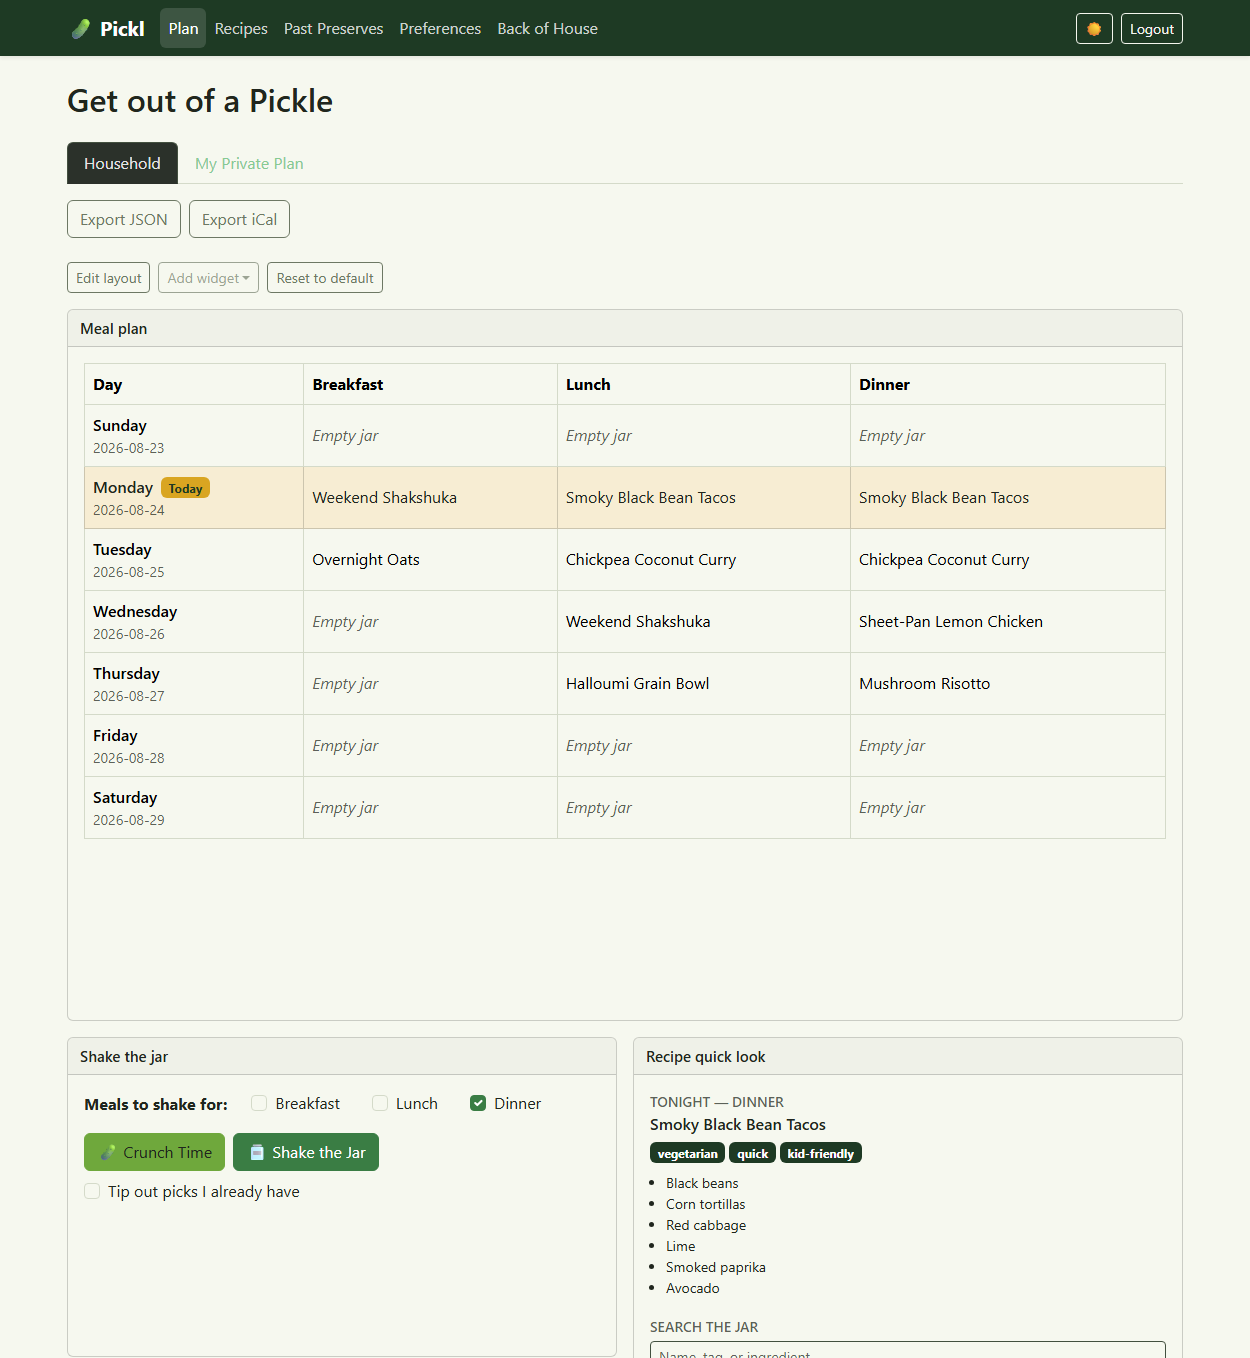
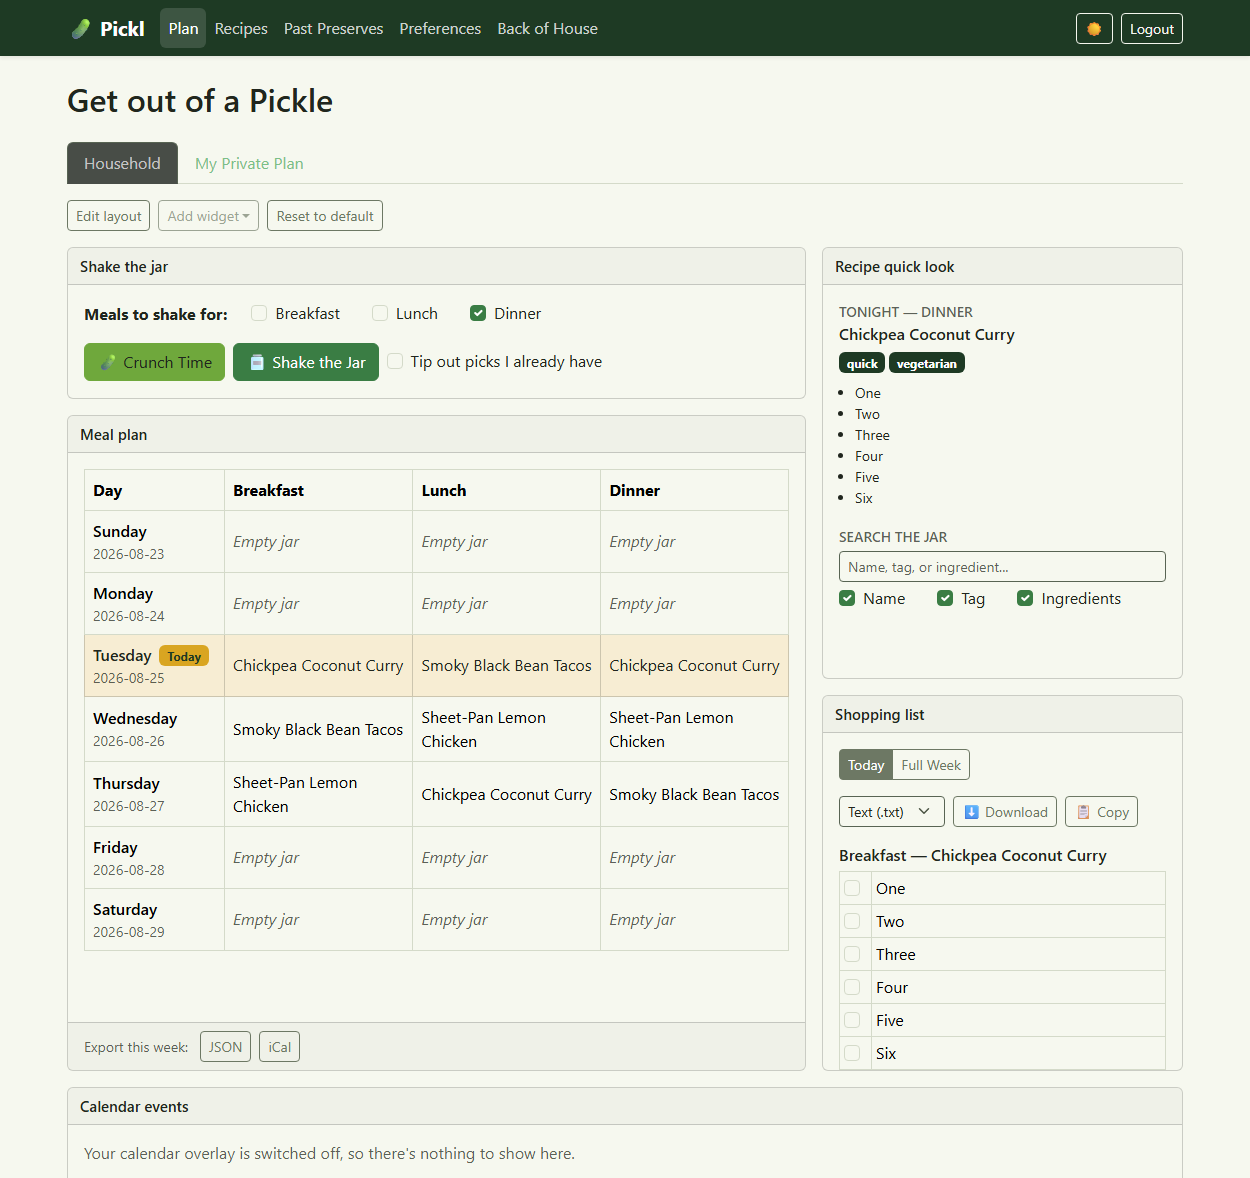
Rearrange the default dashboard; move export into the Meal plan widget
New default arrangement, matching the requested layout:

  Shake the jar  (8 wide) | Recipe quick look (4 wide)
  Meal plan      (8 wide) | Shopping list     (4 wide)
  Calendar events        (full width)

Shaking now sits directly above the grid it fills in, and the two things you
read rather than act on stack down a narrow right column. Both columns come
to 15 rows so the board reads as a rectangle.

Heights are measured against real content at the new widths, not guessed -
narrower widgets are taller, so the earlier numbers no longer applied:
shake 149px, meal plan 611px (including its new footer), quick look 381px,
calendar 122px in its default off state. The shopping list stays deliberately
shorter than its ~892px of content and scrolls, because sizing it to fit
would push everything else off screen.

Export JSON / Export iCal move out of the page chrome and into the Meal plan
widget as a pinned Card.Footer, rendered outside the scrolling body so they
stay put through a long week. They export whatever week and scope the grid is
showing, so they belong to it rather than floating above the board. The
tradeoff is that hiding the Meal plan widget hides them too - documented in
the README rather than worked around, since export without a plan to export
is not a meaningful state.

WidgetFrame gains an optional footer slot (WIDGET_FOOTERS, id -> component),
mirroring the existing WIDGET_COMPONENTS registry. Only plan-grid declares
[…]

diff --git a/src/lib/dashboard/widgets.ts b/src/lib/dashboard/widgets.ts
@@ -71,10 +71,18 @@ export interface WidgetMeta {
 }
 
 /**
- * Default arrangement rationale: the grid is the reason the page exists, so
- * it takes the full width up top. The two things you do *to* the week —
- * shaking and glancing at tonight — sit side by side beneath it, and the two
- * lists you read *from* it (shopping, calendar) sit below those.
+ * Default arrangement: a wide left column for the week itself, a narrow right
+ * column for the things you consult while planning it.
+ *
+ *   Shake the jar  (8 wide) | Recipe quick look (4 wide)
+ *   Meal plan      (8 wide) | Shopping list     (4 wide)
+ *   Calendar events        (full width)
+ *
+ * Shaking sits directly above the grid it fills in, so the cause is next to
+ * its effect. Tonight's recipe and the shopping list stack down the right,
+ * both being things you read rather than act on. The calendar overlay spans
+ * the bottom because it is opt-in, and an empty one-line notice for anyone
+ * who has not turned it on.
  */
 export const WIDGET_REGISTRY: Record<WidgetId, WidgetMeta> = {
   "plan-grid": {
@@ -84,7 +92,7 @@ export const WIDGET_REGISTRY: Record<WidgetId, WidgetMeta> = {
     minW: 4,
     minH: 6,
     // 11 rows = 600px, against ~562px of content for a fully planned week.
-    defaultPlacement: { x: 0, y: 0, w: 12, h: 11 },
+    defaultPlacement: { x: 0, y: 3, w: 8, h: 12 },
     mobileOrder: 1,
   },
   "shake-controls": {
@@ -96,7 +104,7 @@ export const WIDGET_REGISTRY: Record<WidgetId, WidgetMeta> = {
     // which forced 208px and was most of the empty space here.
     minH: 3,
     // 3 rows = 152px.
-    defaultPlacement: { x: 0, y: 11, w: 6, h: 3 },
+    defaultPlacement: { x: 0, y: 0, w: 8, h: 3 },
     mobileOrder: 0,
   },
   "recipe-quick-look": {
@@ -106,7 +114,7 @@ export const WIDGET_REGISTRY: Record<WidgetId, WidgetMeta> = {
     minW: 3,
     minH: 5,
     // 8 rows = 432px, against ~381px of content.
-    defaultPlacement: { x: 6, y: 11, w: 6, h: 8 },
+    defaultPlacement: { x: 8, y: 0, w: 4, h: 8 },
     mobileOrder: 2,
   },
   "shopping-list": {
@@ -118,7 +126,7 @@ export const WIDGET_REGISTRY: Record<WidgetId, WidgetMeta> = {
     // Deliberately smaller than its content. A full week of ingredients runs
     // ~900px (17 rows); at that height it would push everything else off
     // screen, so it keeps 12 rows and scrolls instead.
-    defaultPlacement: { x: 0, y: 14, w: 6, h: 12 },
+    defaultPlacement: { x: 8, y: 8, w: 4, h: 7 },
     mobileOrder: 3,
   },
   "calendar-events": {
@@ -130,7 +138,7 @@ export const WIDGET_REGISTRY: Record<WidgetId, WidgetMeta> = {
     // The overlay is opt-in and off by default, so the common first-run state
     // is a one-line notice (~123px). 5 rows = 264px leaves room for a few
     // events once it is switched on, without reserving 9 rows for a message.
-    defaultPlacement: { x: 6, y: 19, w: 6, h: 5 },
+    defaultPlacement: { x: 0, y: 15, w: 12, h: 4 },
     mobileOrder: 4,
   },
 };

diff --git a/src/components/plan/WidgetFrame.tsx b/src/components/plan/WidgetFrame.tsx
@@ -7,6 +7,7 @@ import ShakeControlsWidget from "./widgets/ShakeControlsWidget";
 import ShoppingListWidget from "./widgets/ShoppingListWidget";
 import RecipeQuickLookWidget from "./widgets/RecipeQuickLookWidget";
 import CalendarEventsWidget from "./widgets/CalendarEventsWidget";
+import PlanExportFooter from "./widgets/PlanExportFooter";
 import { WIDGET_REGISTRY, type WidgetId } from "@/lib/dashboard/widgets";
 
 /**
@@ -23,6 +24,15 @@ export const WIDGET_COMPONENTS: Record<WidgetId, () => JSX.Element> = {
   "shopping-list": ShoppingListWidget,
   "recipe-quick-look": RecipeQuickLookWidget,
   "calendar-events": CalendarEventsWidget,
+};
+
+/**
+ * Optional pinned footers, id → component. A footer renders as a Card.Footer
+ * outside the scrolling body, so it stays visible however long the content is.
+ * Widgets without an entry simply have no footer.
+ */
+export const WIDGET_FOOTERS: Partial<Record<WidgetId, () => JSX.Element>> = {
+  "plan-grid": PlanExportFooter,
 };
 
 export interface WidgetFrameProps {
@@ -66,6 +76,9 @@ export default function WidgetFrame({
 }: WidgetFrameProps) {
   const meta = WIDGET_REGISTRY[id];
   const Component = WIDGET_COMPONENTS[id];
+  // Only rendered when this widget declares one, and only when the frame is
+  // showing its own component — a caller passing children owns the whole body.
+  const Footer = children ? undefined : WIDGET_FOOTERS[id];
 
   return (
     <Card className="pickl-widget" role="region" aria-label={meta.title}>
@@ -121,6 +134,11 @@ export default function WidgetFrame({
       <Card.Body className="pickl-widget-body">
         {children ?? <Component />}
       </Card.Body>
+      {Footer && (
+        <Card.Footer className="pickl-widget-footer">
+          <Footer />
+        </Card.Footer>
+      )}
     </Card>
   );
 }

diff --git a/src/components/plan/widgets/PlanExportFooter.tsx b/src/components/plan/widgets/PlanExportFooter.tsx
@@ -1,0 +1,46 @@
+"use client";
+
+import { Button } from "react-bootstrap";
+import { usePlanContext } from "@/components/plan/PlanContext";
+
+/**
+ * Export actions for the meal plan, pinned to the bottom of the Meal plan
+ * widget.
+ *
+ * These used to sit in the page chrome above the board. They belong to the
+ * plan itself — they export whatever week and scope the grid is showing — so
+ * they live with it. Rendered as a Card.Footer *outside* the widget's
+ * scrolling body, so they stay put rather than scrolling away with a long
+ * week.
+ */
+export default function PlanExportFooter() {
+  const { week, scope, requestedUserId } = usePlanContext();
+
+  const params = new URLSearchParams({ week, scope });
+  if (scope === "private") params.set("userId", requestedUserId);
+  const qs = params.toString();
+
+  return (
+    <div className="d-flex flex-wrap gap-2 align-items-center">
+      <span className="text-body-secondary small me-1">Export this week:</span>
+      <Button
+        size="sm"
+        variant="outline-secondary"
+        href={`/api/export/json?${qs}`}
+        target="_blank"
+        title="Download this week's plan as JSON, one entry per planned meal."
+      >
+        JSON
+      </Button>
+      <Button
+        size="sm"
+        variant="outline-secondary"
+        href={`/api/export/ical?${qs}`}
+        target="_blank"
+        title="Download this week's plan as an .ics calendar file you can import anywhere."
+      >
+        iCal
+      </Button>
+    </div>
+  );
+}

diff --git a/src/components/PlanView.tsx b/src/components/PlanView.tsx
@@ -391,8 +391,6 @@ export default function PlanView({
     }
   }
 
-  const exportParams = new URLSearchParams({ week, scope });
-  if (scope === "private") exportParams.set("userId", requestedUserId);
 
   return (
     <div>
@@ -452,23 +450,6 @@ export default function PlanView({
           You have view-only access to the household calendar.
         </Alert>
       )}
-
-      <div className="d-flex flex-wrap gap-2 mb-4">
-        <Button
-          variant="outline-secondary"
-          href={`/api/export/json?${exportParams.toString()}`}
-          target="_blank"
-        >
-          Export JSON
-        </Button>
-        <Button
-          variant="outline-secondary"
-          href={`/api/export/ical?${exportParams.toString()}`}
-          target="_blank"
-        >
-          Export iCal
-        </Button>
-      </div>
 
       <PlanContextProvider
         value={{

diff --git a/README.md b/README.md
@@ -406,10 +406,29 @@ It is **off by default** and each person turns it on for themselves under
 
 `/plan` is a **configurable dashboard**: a board of draggable, resizable
 widgets whose arrangement is saved per user. The page chrome around it —
-the Household / My Private Plan tabs, the admin's "viewing calendar for"
-picker, and the JSON/iCal export buttons — is *not* a widget, because those
-decide what the whole board is showing and must never be something you can
-accidentally hide.
+the Household / My Private Plan tabs and the admin's "viewing calendar for"
+picker — is *not* a widget, because those decide what the whole board is
+showing and must never be something you can accidentally hide.
+
+The default arrangement is a wide left column for the week itself and a
+narrow right column for what you consult while planning it:
+
+```
+  Shake the jar  (8 wide) │ Recipe quick look (4 wide)
+  Meal plan      (8 wide) │ Shopping list     (4 wide)
+  Calendar events        (full width)
+```
+
+Shaking sits directly above the grid it fills in. Default widget heights are
+measured against real content rather than guessed, so nothing starts with a
+lap of empty space — the shopping list is the deliberate exception, since a
+full week of ingredients would otherwise push everything else off screen, so
+it scrolls instead.
+
+**Export lives in the Meal plan widget**, as a footer pinned below its
+scrolling body. The buttons export whatever week and scope the grid is
+showing, so they belong to it. One consequence worth knowing: hide that
+widget and the export buttons go with it.
 
 ### The widgets
 
